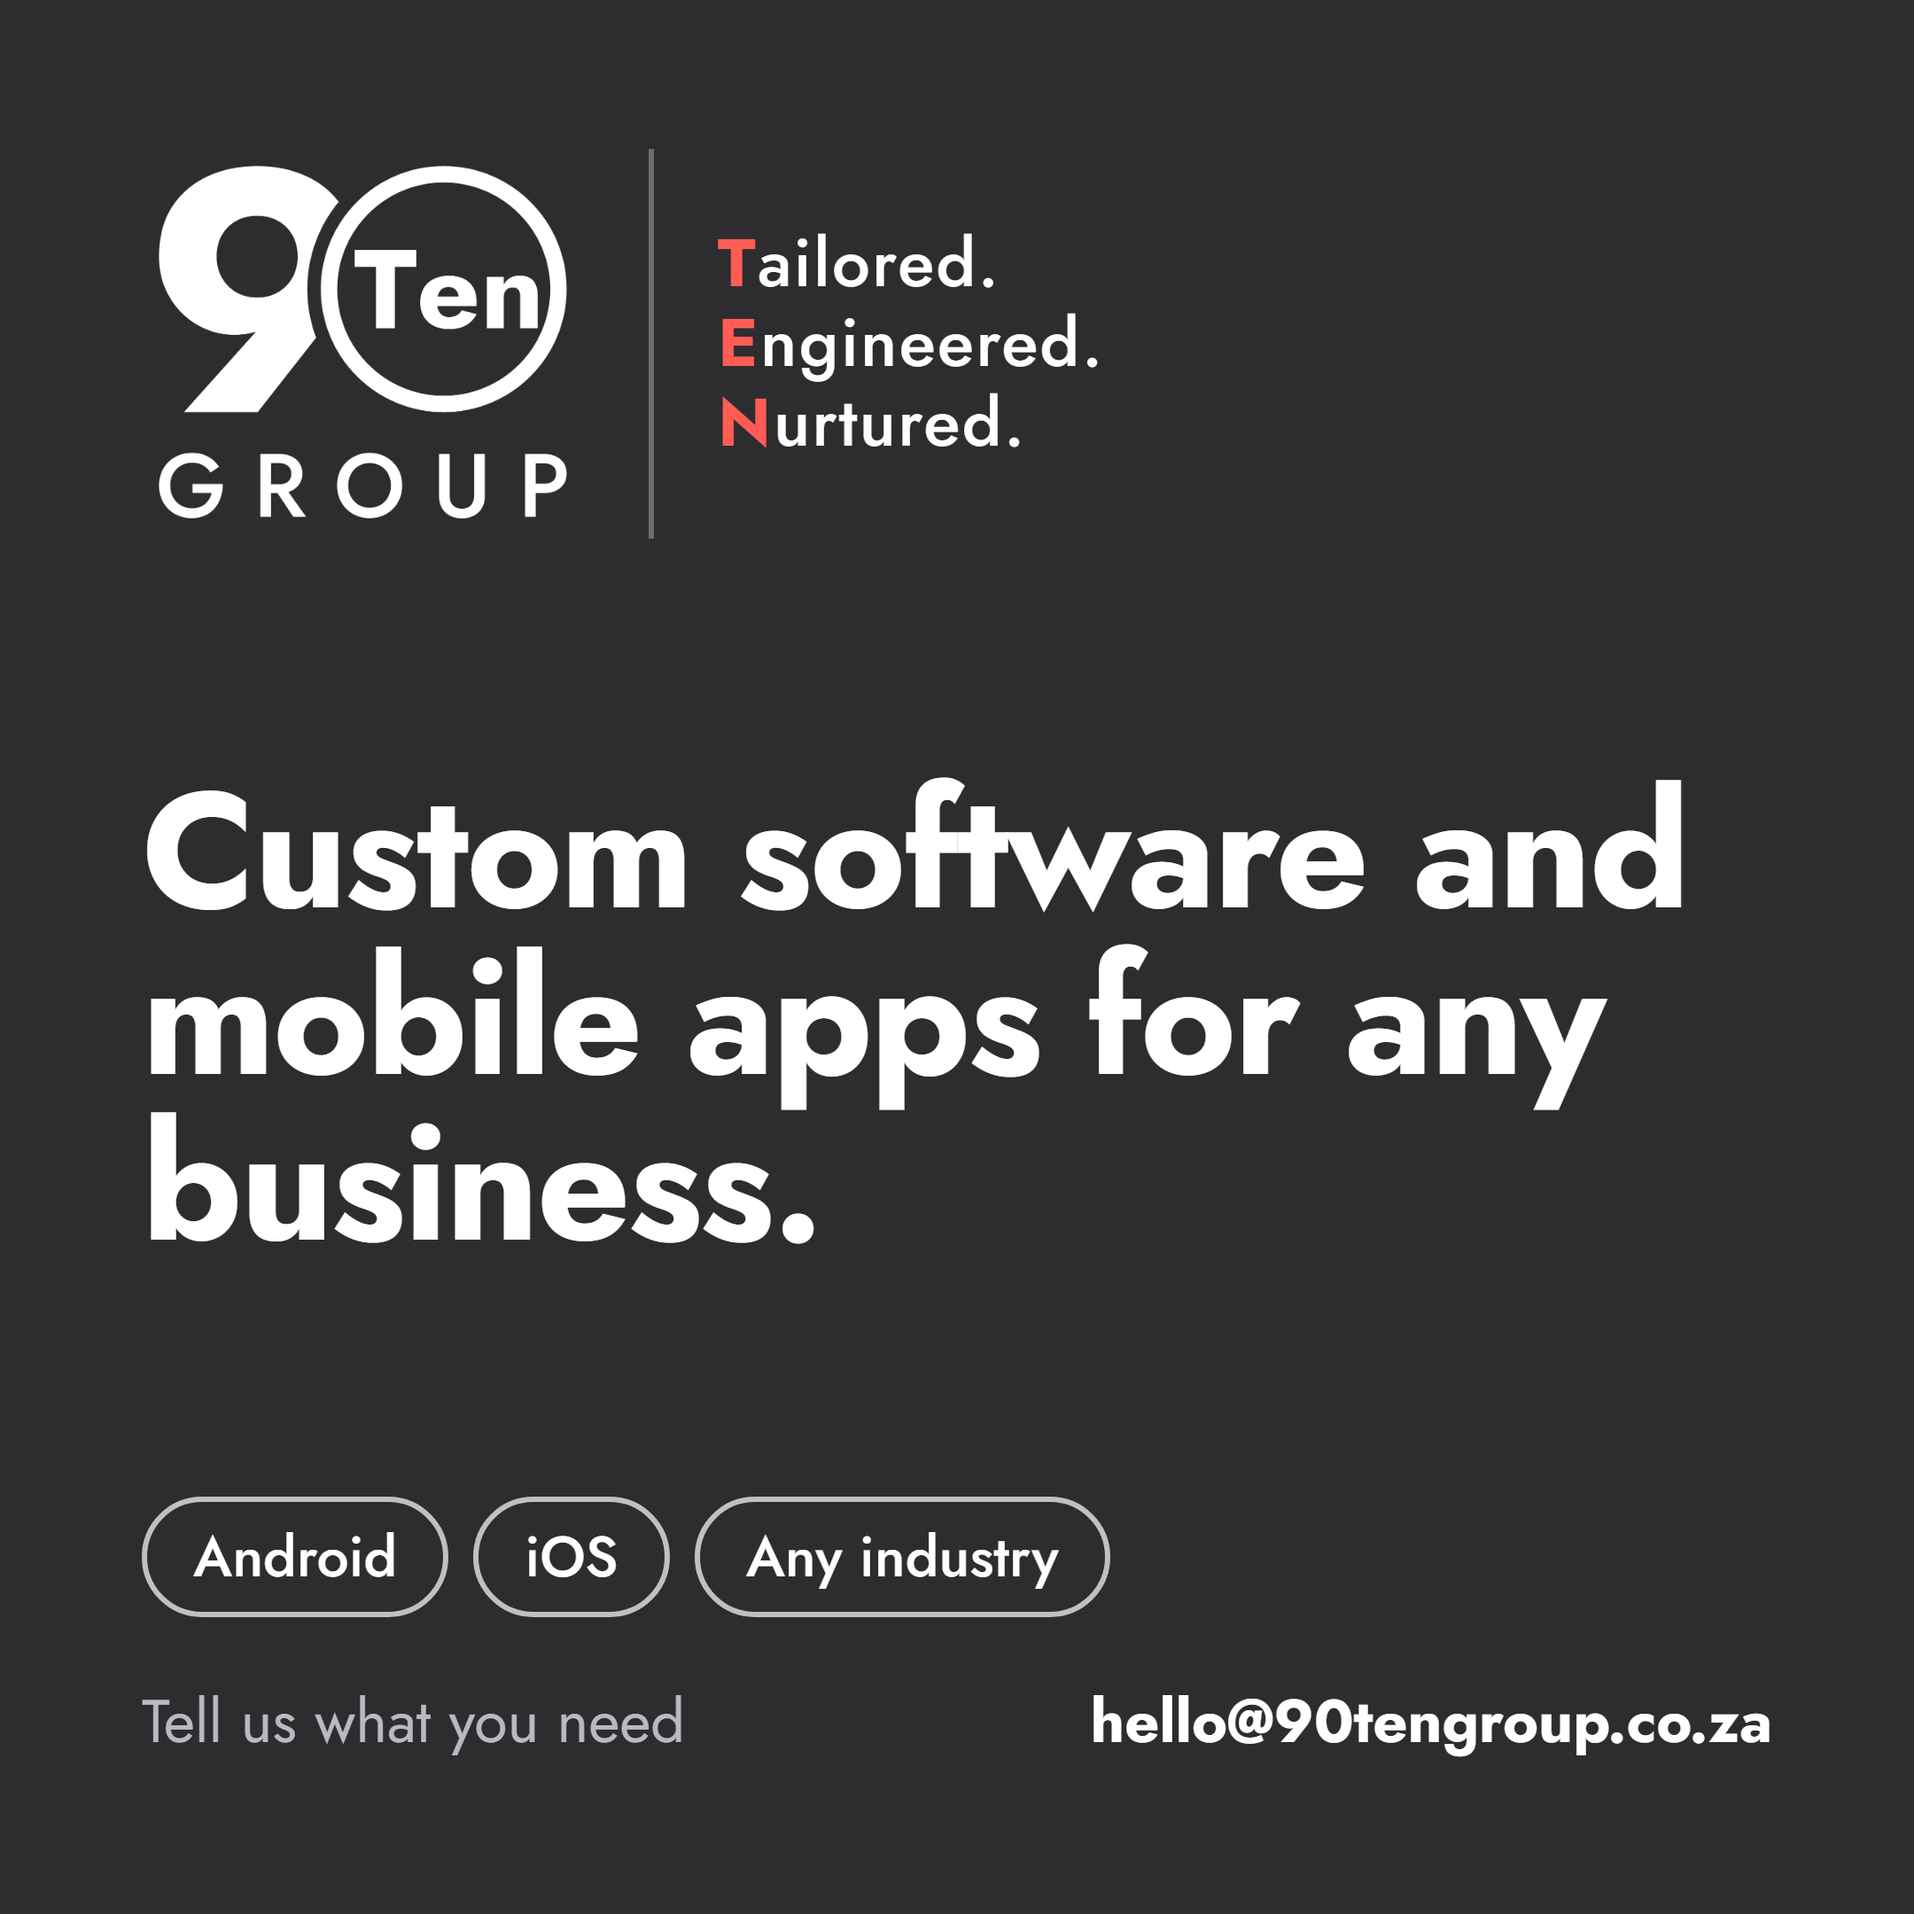
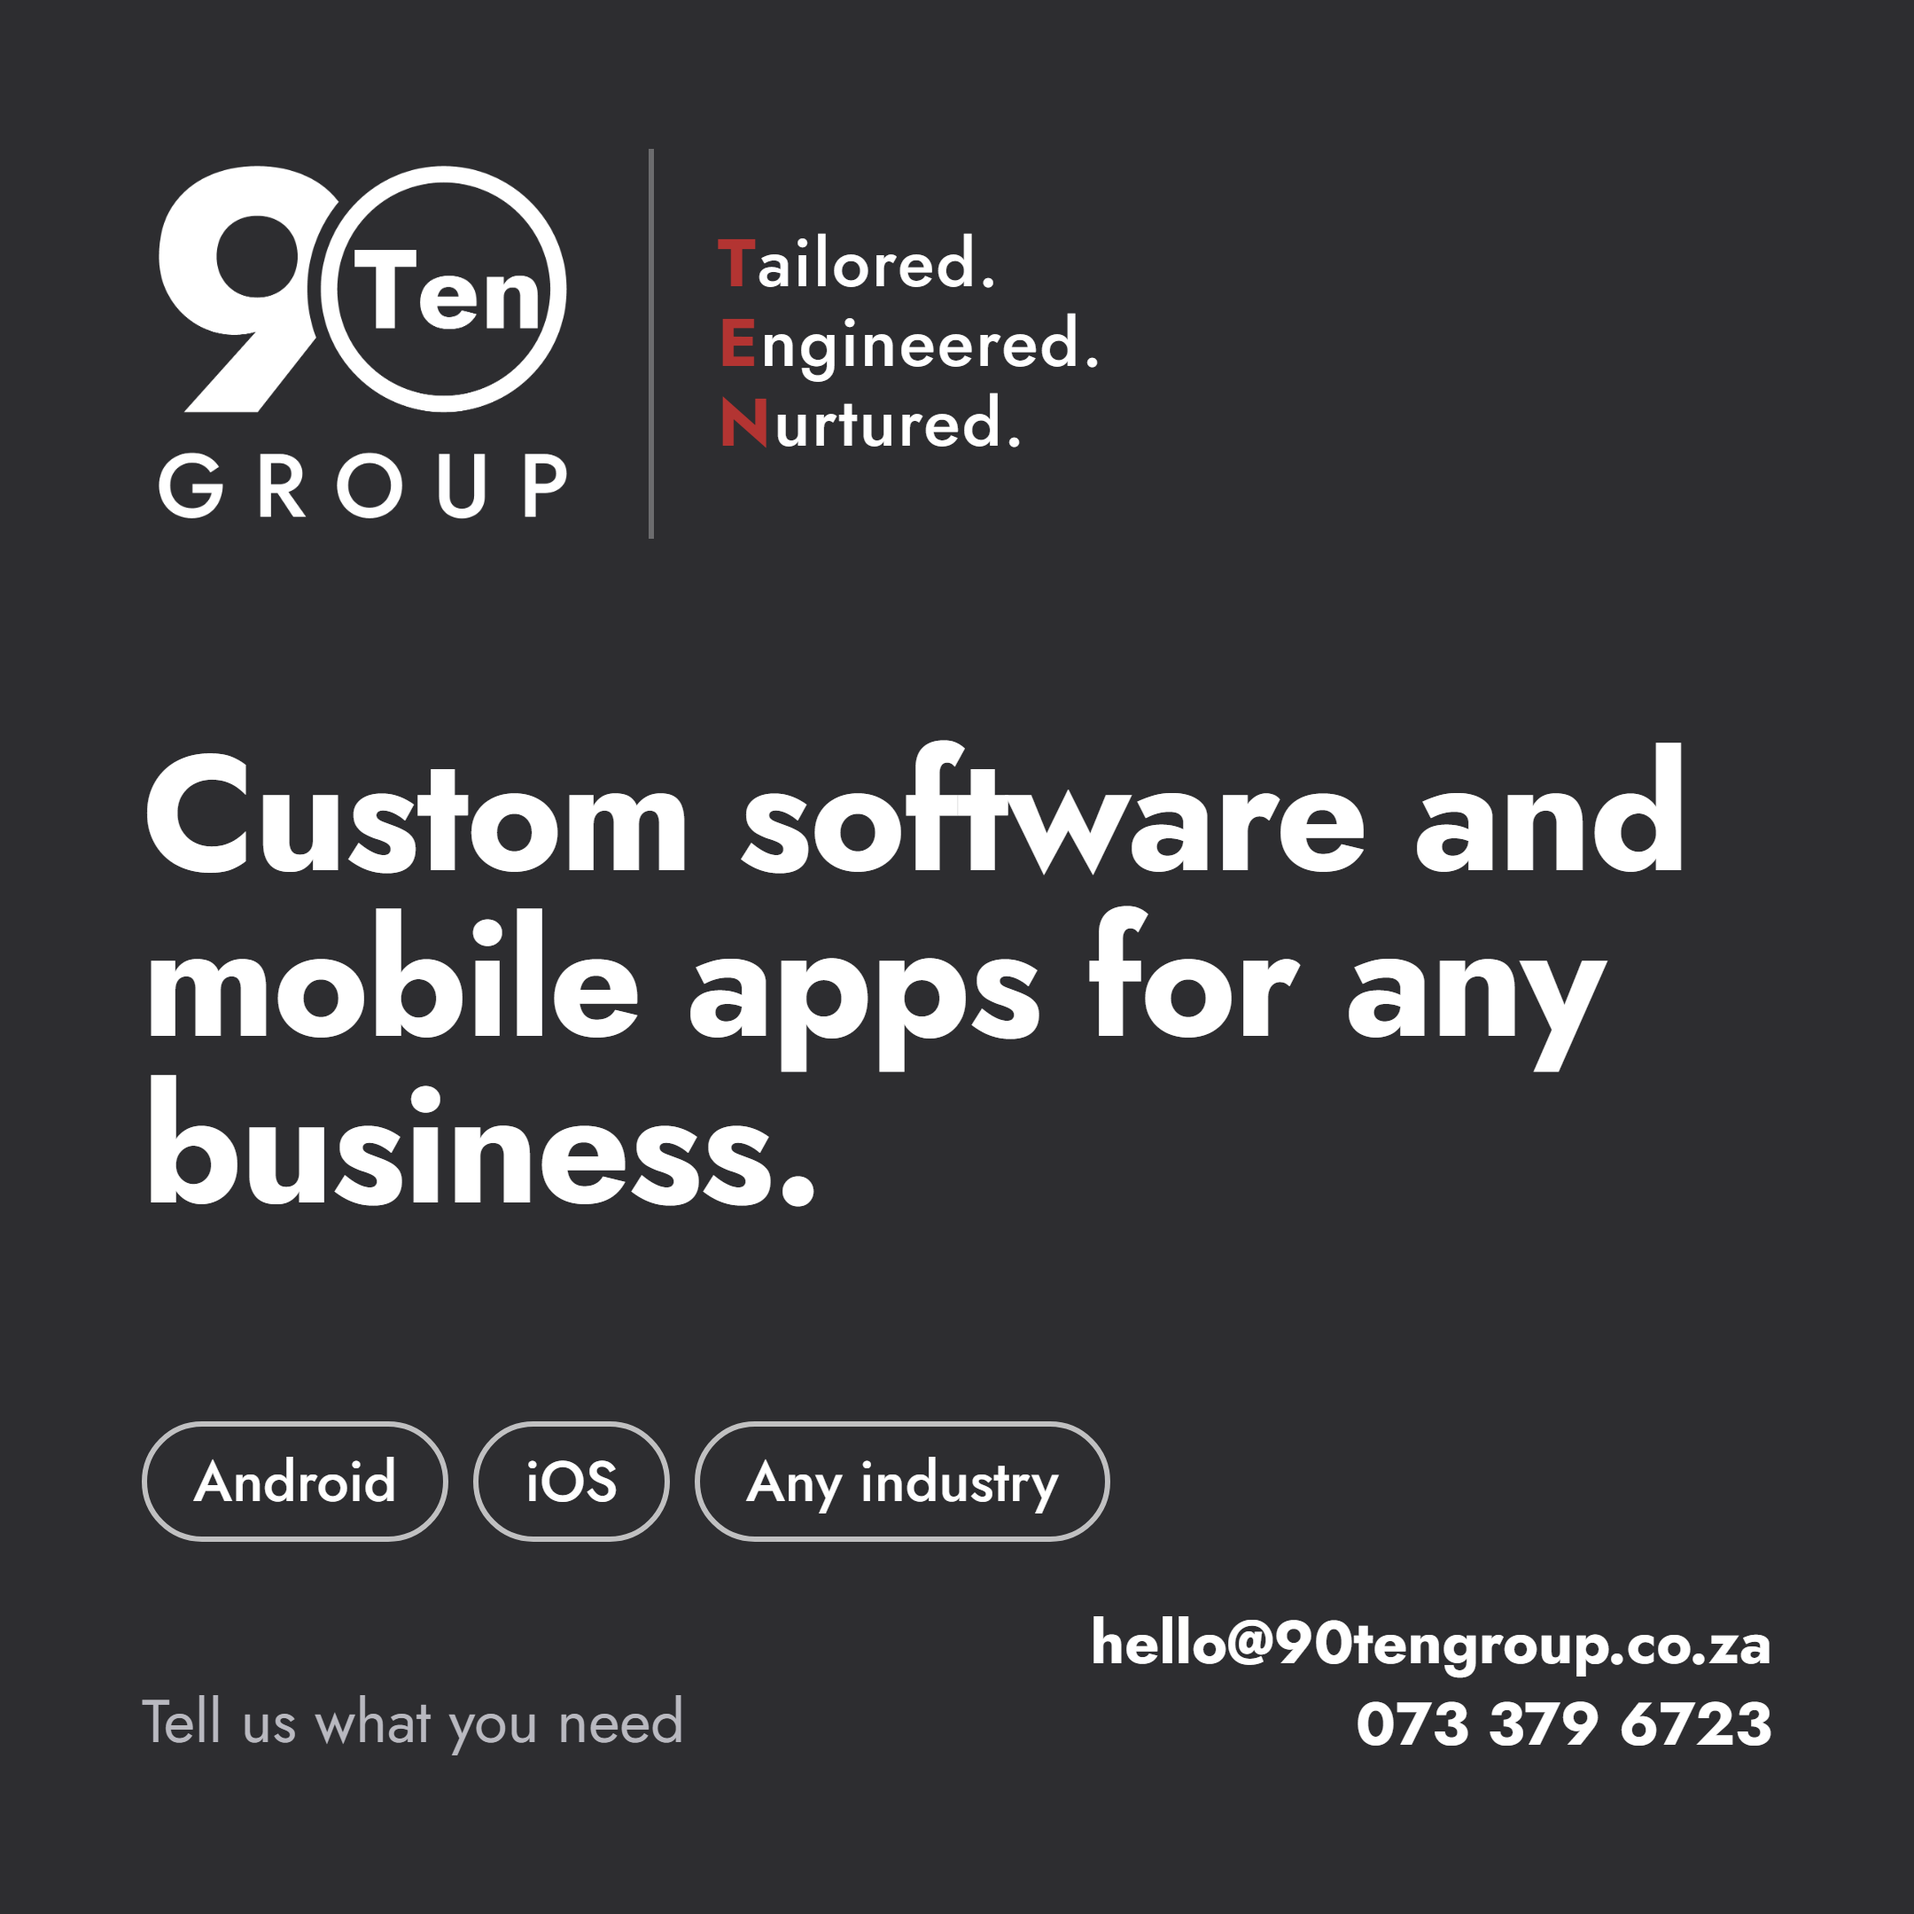
No-cache for html so phones pick up updates; WhatsApp pictures re-exported with brand red and phone

diff --git a/design/marketing/whatsapp-status.html b/design/marketing/whatsapp-status.html
@@ -20,5 +20,5 @@ p.s{font-size:42px;line-height:1.4;color:var(--muted);margin:0}
   <p class="s">We design and build apps for Android and iOS, for businesses in any sector.</p></div>
 <div><p class="lab">We work with</p>
   <div class="words"><span>Logistics</span><i>/</i><span>Health</span><i>/</i><span>Churches</span><i>/</i><span>Hospitality</span><i>/</i><span>Mining</span><i>/</i><span class="y">Yours</span></div></div>
-<div class="cta"><h2>Tell us what you need.</h2><p>Send a few lines. We reply with questions, not a sales pitch.</p><b>hello@90tengroup.co.za</b></div>
+<div class="cta"><h2>Tell us what you need.</h2><p>Send a few lines. We reply with questions, not a sales pitch.</p><b>hello@90tengroup.co.za</b><b style="margin-top:6px">073 379 6723</b></div>
 </body></html>

diff --git a/design/marketing/whatsapp-square.html b/design/marketing/whatsapp-square.html
@@ -14,6 +14,6 @@ h1{font-size:92px;line-height:1.02;margin:0;font-weight:700;letter-spacing:-.015
 <div><h1>Custom software and mobile apps for any business.</h1></div>
 <div style="display:grid;gap:34px">
   <div class="row"><span>Android</span><span>iOS</span><span>Any industry</span></div>
-  <div class="bot"><span>Tell us what you need</span><b>hello@90tengroup.co.za</b></div>
+  <div class="bot"><span>Tell us what you need</span><div style="text-align:right;line-height:1.35"><b>hello@90tengroup.co.za</b><br><b>073 379 6723</b></div></div>
 </div>
 </body></html>

diff --git a/design/marketing/whatsapp-band-white.html b/design/marketing/whatsapp-band-white.html
@@ -19,5 +19,5 @@ h1{font-size:104px;line-height:1.02;margin:0;font-weight:700;letter-spacing:-.01
   <div class="stack"><span><b>T</b>ailored.</span><span><b>E</b>ngineered.</span><span><b>N</b>urtured.</span></div></div>
 <div class="main"><h1>Custom software and mobile apps for any business.</h1>
   <div class="pills"><span>Android</span><span>iOS</span><span>Any industry</span></div>
-  <p class="foot">90tengroup.co.za</p></div>
+  <p class="foot">hello@90tengroup.co.za &nbsp;&middot;&nbsp; 073 379 6723</p></div>
 </body></html>

diff --git a/design/marketing/whatsapp-band.html b/design/marketing/whatsapp-band.html
@@ -19,5 +19,5 @@ h1{font-size:104px;line-height:1.02;margin:0;font-weight:700;letter-spacing:-.01
   <div class="stack"><span><b>T</b>ailored.</span><span><b>E</b>ngineered.</span><span><b>N</b>urtured.</span></div></div>
 <div class="main"><h1>Custom software and mobile apps for any business.</h1>
   <div class="pills"><span>Android</span><span>iOS</span><span>Any industry</span></div>
-  <p class="foot">90tengroup.co.za</p></div>
+  <p class="foot">hello@90tengroup.co.za &nbsp;&middot;&nbsp; 073 379 6723</p></div>
 </body></html>

diff --git a/Program.cs b/Program.cs
@@ -8,7 +8,18 @@ WebApplicationBuilder builder = WebApplication.CreateBuilder(args);
 WebApplication app = builder.Build();
 
 app.UseDefaultFiles();
-app.UseStaticFiles();
+// The page must be re-checked on every visit so phones pick up updates; css and js are versioned (?v=).
+app.UseStaticFiles(new StaticFileOptions
+{
+    OnPrepareResponse = ctx =>
+    {
+        string path = ctx.File.Name;
+        if (path.EndsWith(".html", StringComparison.OrdinalIgnoreCase))
+        {
+            ctx.Context.Response.Headers["Cache-Control"] = "no-cache";
+        }
+    }
+});
 
 IConfigurationSection cfg = app.Configuration.GetSection("Contact");
 ConcurrentDictionary<string, List<DateTime>> sent = new();
